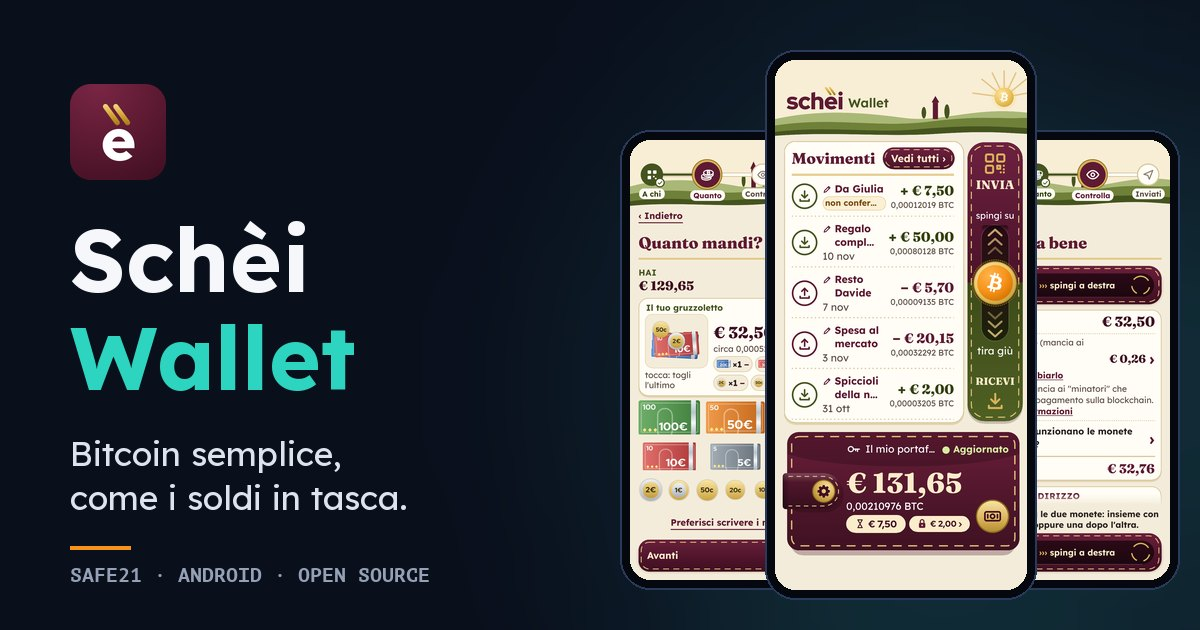
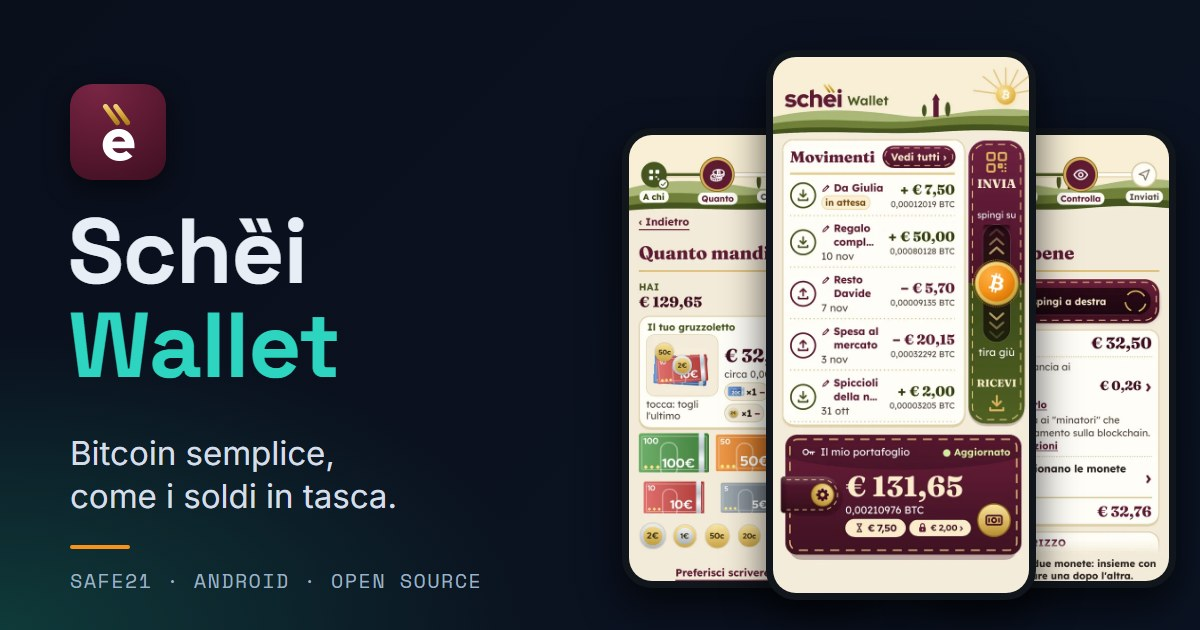
#74 Schȅi page: lost phone answer and new preview image
- FAQ: recover with Schȅi on another phone or with Electrum (mobile or desktop)
- New og image with Schȅi and updated screenshots

Changed region(s): [[0.5242, 0.0603, 1.0, 1.0], [0.0, 0.6937, 0.4008, 1.0], [0.0617, 0.3317, 0.3083, 0.6333]]

diff --git a/schei.html b/schei.html
@@ -585,10 +585,24 @@
         </details>
         <details>
           <summary>E se perdo o rompo il telefono?</summary>
-          <p>I soldi non sono persi, se hai le dodici parole. Installi Schȅi
-             Wallet su un altro telefono, scrivi le dodici parole e ritrovi
-             tutto. Per questo vanno scritte su carta e tenute al sicuro:
-             chi le legge può prendere i tuoi soldi.</p>
+          <p>I soldi non sono nel telefono: sono su bitcoin. Il telefono
+             tiene solo le chiavi, e le chiavi sono le tue dodici parole.
+             Se le hai scritte su carta, non hai perso niente.</p>
+          <p>Per ritrovare i tuoi soldi hai due strade:</p>
+          <ul>
+            <li><strong>Schȅi Wallet su un altro telefono:</strong> lo
+                installi, scegli &laquo;Ho già le 12 parole&raquo;, le scrivi
+                e ritrovi tutto, movimenti compresi.</li>
+            <li><strong>Electrum</strong>, il programma da cui nasce Schȅi
+                Wallet: sul telefono Android oppure sul computer (Windows,
+                Mac, Linux), dal sito ufficiale electrum.org. Scegli
+                &laquo;Ho già un seed&raquo; e scrivi le stesse dodici parole.
+                Le parole di Schȅi sono di tipo Electrum, senza parole in
+                più.</li>
+          </ul>
+          <p>Così i tuoi soldi non dipendono né da noi né da questa app.
+             Per questo le dodici parole vanno scritte su carta e tenute al
+             sicuro: chi le legge può prendere i tuoi soldi.</p>
         </details>
         <details>
           <summary>Ho dimenticato il PIN. E adesso?</summary>

diff --git a/schei.css b/schei.css
@@ -274,6 +274,9 @@
 }
 .faq details[open] summary::after { content: "\2212"; }
 .faq details p { margin: 0; padding: 0 22px 20px; font-size: 15.5px; color: var(--body); line-height: 1.65; }
+.faq details p + p, .faq details ul + p { margin-top: -8px; }
+.faq details ul { margin: -8px 0 0; padding: 0 22px 20px 44px; font-size: 15.5px; color: var(--body); line-height: 1.65; }
+.faq details li { margin-bottom: 6px; }
 
 /* ---------- Origin note (credit to Electrum) ---------- */
 .origin {

diff --git a/CHANGELOG.md b/CHANGELOG.md
@@ -3,6 +3,19 @@
 All notable changes to the SAFE21 website are documented here.
 One numbered entry per task.
 
+## [74] — Schȅi page: lost phone answer and new preview image
+
+**Date:** 2026-11-13
+**Status:** Delivered and live
+
+- FAQ "E se perdo o rompo il telefono?": the money is not in the phone, the
+  12 words are the keys; two ways back: Schȅi Wallet on another phone, or
+  Electrum (Android or computer, electrum.org) with "Ho già un seed" — the
+  words are Electrum-type, no extra words. Owner request.
+- `schei.css`: lists inside FAQ answers styled like the paragraphs.
+- `images/schei-og.jpg` redrawn: "Schȅi" with the double accent and the
+  updated app screenshots.
+
 ## [73] — Schȅi: the name with the double accent
 
 **Date:** 2026-11-13
